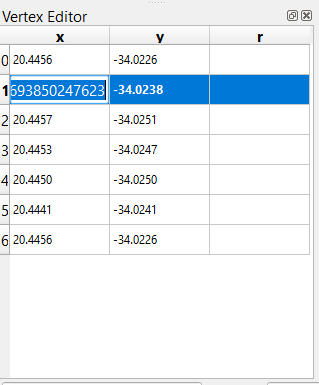
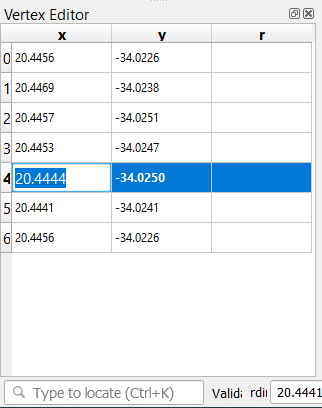
Added intermediate section, Using Vertex Editor Table

Changed region(s): [[0.0, 0.0, 1.0, 1.0], [0.6489, 0.6234, 0.6771, 0.6857]]

diff --git a/docs/training_manual/create_vector_data/create_new_vector.rst b/docs/training_manual/create_vector_data/create_new_vector.rst
@@ -215,21 +215,6 @@ digitizing until you're done creating the feature as above. Then:
    The same procedure can be used to move a line segment, but you will need to
    hover over the midpoint of the line segment.
 
-Another way to edited the feature is by manually entering the coordinates for each vertex.  
-
-#. Make sure the |vertexToolActiveLayer| :sup:`Vertex Tool Active Layer` button is still active.
-#. Move the mouse over the feature and right click on it.
-#. A :guilabel:`Vertex Editor` pane will appear.  
-
-   .. figure:: img/vertex_editor_table.png
-     :align: center
-
-#. Click on a row, and notice that for this feature the vertex circle color will change to blue.
-#. Double left click in the table on the x or y coordinate you want to edit and enter the updated value. 
-
-   .. figure:: img/edit_vertex_in_vertex_editor.png
-     :align: center
-
 If you want to undo a change, you can undo changes by pressing the |undo| :sup:`Undo` button.
 
 Remember to save your changes by clicking |saveEdits| :sup:`Save Edits` button.
@@ -252,7 +237,9 @@ To enable the remaining feature editing tools, one needs to select the feature.
 #. When done editing, click the |toggleEditing| :sup:`Toggle Editing` button to get out of edit mode, and save your edits.
 
 
-|basic| |TY|
+
+
+|basic| |TY| Digitizing Polygons 
 -------------------------------------------------------------------------------
 
 Digitize the school itself and the upper field. Use this image to assist you:
@@ -272,7 +259,43 @@ Remember that each new feature needs to have a unique ``id`` value!
 
 .. _backlink-create-vector-digitize-1:
 
-|basic| |TY|
+|moderate| |FA| Using Vertex Editor Table
+-------------------------------------------------------------------------------
+
+Another way to edit a feature is to manually enter the actual coordinate values for each vertex using the :guilabel:`Vertex Editor` table.
+
+#. Make sure you are in edit mode on layer ``school_property``.
+#. If not already activated, click on |vertexToolActiveLayer| :sup:`Vertex Tool Active Layer` button.
+#. Move the mouse over one of the polygon features you created in the ``school_property`` layer and right click on it.  This will select the feature and a :guilabel:`Vertex Editor` pane will appear.  
+
+   .. figure:: img/vertex_editor_table.png
+     :align: center
+
+   .. note:: This table contains the coordinates for the vertices of the feature.  
+      Notice there are 7 total vertices for these feature, even though only 6 are 
+      visually identified in the map area.  Upon closer inspection, one will notice row 
+      0 and 6 have identical coordinates. This is the start and end vertices of the 
+      feature, and are required in order to create a closed polygon feature.
+
+#. Click and drag a box over a vertex, or multiple vertices, of the selected feature.
+
+   .. figure:: img/vertex_select.png
+     :align: center
+
+   The selected vertices will change to a color blue and the :guilabel:`Vertex Editor` table will have the corresponding rows highlighted, which contain the coordinates of the verticies.
+   
+   .. figure:: img/vertex_selected.png
+     :align: center
+
+#. To update the a coordinate, double left click on a cell in the table that you want to edit and enter the updated value. In this example, the x coordinate of row ``4`` is updated from ``20.4450`` to ``20.4444``.
+
+   .. figure:: img/edit_vertex_in_vertex_editor.png
+     :align: center
+	 
+#. After entering the updated value, hit the enter key on your keyboard to apply the change.  You will see the vertex move to the new location in the map window.
+#. When done editing, click the |toggleEditing| :sup:`Toggle Editing` button to get out of edit mode, and save your edits.
+
+|basic| |TY| Digitizing Lines
 -------------------------------------------------------------------------------
 We are going to digitize two routes which are not already marked on the roads layer;
 one is a path, the other is a track. Our path runs along the southern edge of the suburb of Railton, starting and
@@ -293,7 +316,7 @@ Our track is a little further to the south:
 #. One at a time, digitize the path and the track on the :guilabel:`routes` layer. Try to follow the routes as accurately as possible, adding additional points along corners or turns.
 #. Give them the :guilabel:`type` attribute value of ``path`` or ``track``.\
 #. Use the :guilabel:`Layer Properties` dialog to add styling to your routes. Feel free to give different styles to the path and track.
-#. Save your edits and toggle |toggleEditing| mode.
+#. Save your edits and toggle off editing mode by pressing the |toggleEditing| :sup:`Toggle Editing` button.
 
 :ref:`Check your results <create-vector-digitize-1>`
 
@@ -327,11 +350,12 @@ be useful.
 .. |FA| replace:: Follow Along:
 .. |IC| replace:: In Conclusion
 .. |LS| replace:: Lesson:
-.. |TY| replace:: Try Yourself
+.. |TY| replace:: Try Yourself:
 .. |WN| replace:: What's Next?
 .. |addRasterLayer| image:: /static/common/mActionAddRasterLayer.png
    :width: 1.5em
 .. |basic| image:: /static/common/basic.png
+.. |moderate| image:: /static/common/moderate.png
 .. |capturePolygon| image:: /static/common/mActionCapturePolygon.png
    :width: 1.5em
 .. |deleteSelectedFeatures| image:: /static/common/mActionDeleteSelectedFeatures.png
